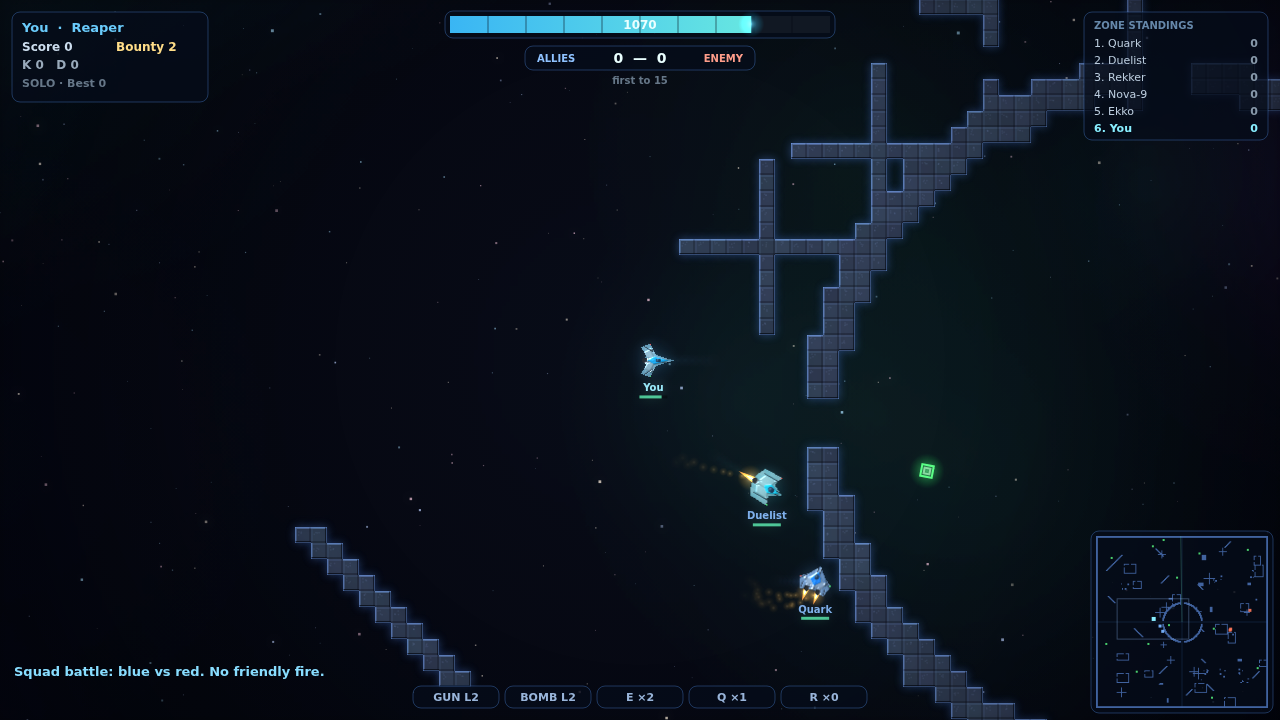
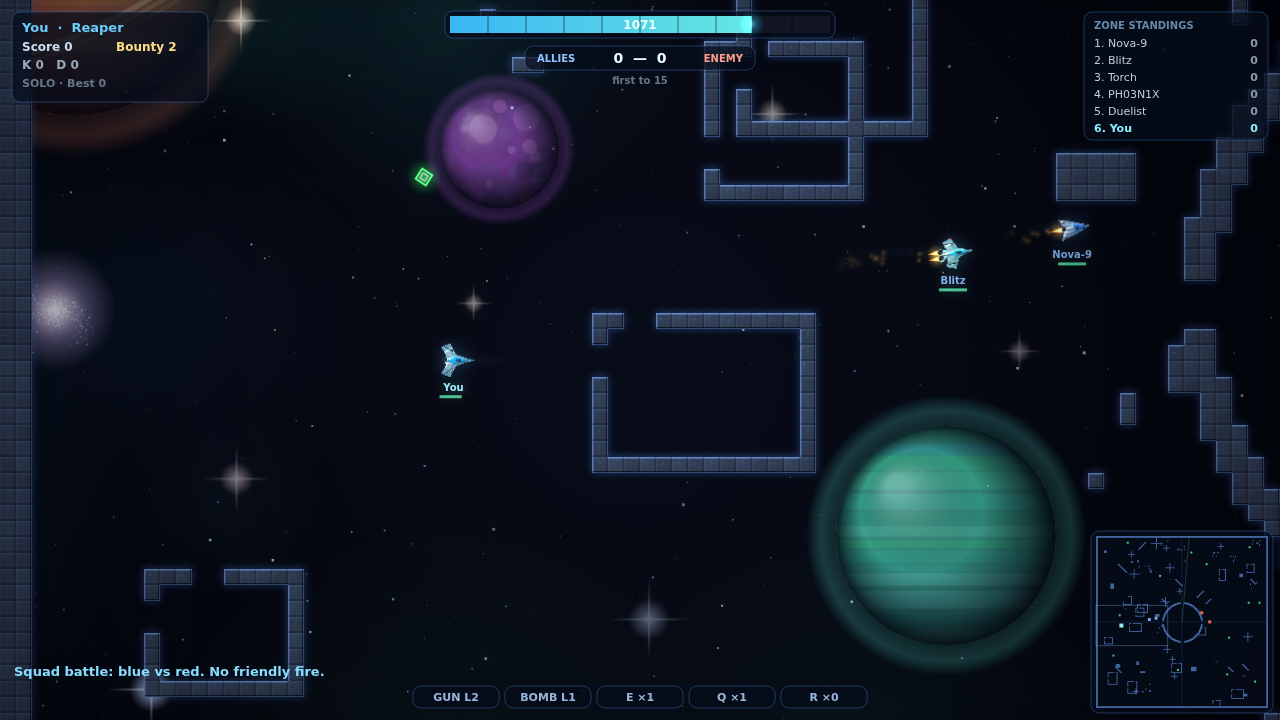
Fill deep space with places: planets, a black hole, a galaxy, flare stars
The zone now feels like traveling through space, in the spirit of the
classic starfield zones but rendered to match the new ship art:

- Procedural planets, all lit from the same top-left as the ships: a
  ringed world (ring passes behind the limb and in front, correctly
  occluded), a banded gas giant, and a cratered rocky world — each with
  spherical shading and an atmosphere halo, dimmed so combat always
  reads above the scenery.
- A black hole with a hollow-centered accretion disk, photon ring,
  lensed light band, and a blue-shifted event horizon edge, slowly
  rotating.
- A distant two-armed spiral galaxy built from hundreds of star points.
- Eight bright flare stars with diffraction spikes that twinkle, plus a
  260-point unresolved star-dust layer at the deepest parallax, and
  occasional shooting stars streaking across the sky.
- Everything parallax-wrapped at its own depth, so flying anywhere
  gives layered motion from dust to nebulae.

Claude-Session: https://claude.ai/code/session_01B8hcSvZjcaomtossQcuxbY

diff --git a/client.js b/client.js
@@ -32,6 +32,7 @@
     chatOpen: false, chatStr: '',
     zoneStatus: null, zoneMode: '', sideFlip: 0, duel: null, myElo: 0,
     lastKillerId: 0, coreOwner: 0,
+    shoot: null, shootT: 6,
   };
   const keys = Object.create(null);
   let canvas = null, ctx = null, vw = 1280, vh = 720, dpr = 1;
@@ -932,6 +933,23 @@
       G.banner.t += dt;
       if (G.banner.t > G.banner.dur) G.banner = null;
     }
+    // shooting stars streak by every so often
+    if (G.shoot) {
+      G.shoot.x += G.shoot.vx * dt;
+      G.shoot.y += G.shoot.vy * dt;
+      G.shoot.life -= dt;
+      if (G.shoot.life <= 0) G.shoot = null;
+    } else {
+      G.shootT -= dt;
+      if (G.shootT <= 0) {
+        G.shootT = rand(8, 22);
+        const dir = Math.random() < 0.5 ? 1 : -1;
+        G.shoot = {
+          x: dir > 0 ? -30 : vw + 30, y: rand(0, vh * 0.6),
+          vx: dir * rand(500, 800), vy: rand(120, 320), life: 0.9,
+        };
+      }
+    }
 
     if (G.player && !G.player.dead && G.player.energy < G.player.maxEnergy * 0.25) {
       G.beepT -= dt;
@@ -971,9 +989,186 @@
   }
 
   // ---------------------------------------------------------------- backdrop
+  // Deep space with places in it: planets, a black hole, a distant galaxy,
+  // flare stars, dust, nebulae — all parallax layers, all lit from the same
+  // top-left as the ships, so flying feels like actually traveling.
   const stars = [];
   const nebulae = [];
+  const bgObjs = [];
+  const dust = [];
+
+  function makePlanet(rad, hue, style, rng) {
+    const doc = GLOBAL.document;
+    const pad = Math.ceil(rad * (style === 'ringed' ? 1.9 : 1.4));
+    const c = doc.createElement('canvas');
+    c.width = c.height = pad * 2;
+    const g = c.getContext('2d');
+    const cx = pad, cy = pad;
+    const ring = front => {
+      if (style !== 'ringed') return;
+      g.save();
+      g.translate(cx, cy);
+      g.rotate(-0.45);
+      g.scale(1, 0.32);
+      g.beginPath();
+      g.rect(-pad * 3, front ? 0 : -pad * 3, pad * 6, pad * 3);
+      g.clip();
+      for (let i = 0; i < 3; i++) {
+        const rr = rad * (1.35 + i * 0.16);
+        g.beginPath();
+        g.arc(0, 0, rr, 0, TAU);
+        g.strokeStyle = 'hsla(' + (hue + 22) + ',32%,' + (58 - i * 9) + '%,' + (0.55 - i * 0.13).toFixed(2) + ')';
+        g.lineWidth = rad * (0.11 - i * 0.02);
+        g.stroke();
+      }
+      g.restore();
+    };
+    ring(false);                                     // ring passes behind the limb
+    // atmosphere halo
+    const ag = g.createRadialGradient(cx, cy, rad * 0.82, cx, cy, rad * 1.28);
+    ag.addColorStop(0, 'hsla(' + hue + ',70%,62%,0)');
+    ag.addColorStop(0.7, 'hsla(' + hue + ',70%,62%,0.26)');
+    ag.addColorStop(1, 'hsla(' + hue + ',70%,62%,0)');
+    g.fillStyle = ag;
+    g.beginPath(); g.arc(cx, cy, rad * 1.28, 0, TAU); g.fill();
+    // body
+    g.save();
+    g.beginPath(); g.arc(cx, cy, rad, 0, TAU); g.clip();
+    g.fillStyle = 'hsl(' + hue + ',45%,40%)';
+    g.fillRect(cx - rad, cy - rad, rad * 2, rad * 2);
+    if (style === 'rock') {
+      for (let i = 0; i < 46; i++) {
+        const px = cx + (rng() * 2 - 1) * rad, py = cy + (rng() * 2 - 1) * rad;
+        const pr = rad * (0.05 + rng() * 0.2);
+        g.fillStyle = 'hsla(' + (hue + rng() * 40 - 20) + ',36%,' + (26 + rng() * 36) + '%,0.55)';
+        g.beginPath(); g.arc(px, py, pr, 0, TAU); g.fill();
+      }
+    } else {
+      // banded gas giant
+      let y = -rad;
+      while (y < rad) {
+        const bh = rad * (0.05 + rng() * 0.12);
+        g.fillStyle = 'hsla(' + (hue + rng() * 30 - 15) + ',52%,' + (34 + rng() * 30) + '%,0.5)';
+        g.fillRect(cx - rad, cy + y, rad * 2, bh);
+        y += bh + rad * rng() * 0.06;
+      }
+    }
+    // spherical shading, sun from the top-left like everything else
+    const sg = g.createRadialGradient(cx - rad * 0.45, cy - rad * 0.45, rad * 0.1, cx, cy, rad * 1.02);
+    sg.addColorStop(0, 'rgba(255,255,255,0.28)');
+    sg.addColorStop(0.5, 'rgba(0,0,0,0)');
+    sg.addColorStop(0.82, 'rgba(3,5,14,0.55)');
+    sg.addColorStop(1, 'rgba(1,2,8,0.96)');
+    g.fillStyle = sg;
+    g.fillRect(cx - rad, cy - rad, rad * 2, rad * 2);
+    g.restore();
+    ring(true);                                      // ring passes in front
+    return c;
+  }
+
+  function makeBlackHole(size) {
+    const doc = GLOBAL.document;
+    const c = doc.createElement('canvas');
+    c.width = c.height = size * 2;
+    const g = c.getContext('2d');
+    const cx = size, cy = size;
+    // accretion disk
+    g.save();
+    g.translate(cx, cy);
+    g.rotate(-0.5);
+    g.scale(1, 0.3);
+    const dg = g.createRadialGradient(0, 0, size * 0.28, 0, 0, size * 0.95);
+    dg.addColorStop(0, 'rgba(255,242,225,0.95)');
+    dg.addColorStop(0.25, 'rgba(255,180,95,0.75)');
+    dg.addColorStop(0.6, 'rgba(210,90,50,0.32)');
+    dg.addColorStop(1, 'rgba(130,45,70,0)');
+    g.fillStyle = dg;
+    g.beginPath(); g.arc(0, 0, size * 0.95, 0, TAU); g.fill();
+    g.globalCompositeOperation = 'destination-out';
+    g.beginPath(); g.arc(0, 0, size * 0.27, 0, TAU); g.fill();
+    g.restore();
+    // photon ring + lensed light
+    g.strokeStyle = 'rgba(255,232,205,0.9)';
+    g.lineWidth = Math.max(1.5, size * 0.018);
+    g.beginPath(); g.arc(cx, cy, size * 0.3, 0, TAU); g.stroke();
+    g.strokeStyle = 'rgba(255,200,140,0.3)';
+    g.lineWidth = size * 0.05;
+    g.beginPath(); g.arc(cx, cy, size * 0.335, 0, TAU); g.stroke();
+    // event horizon
+    const eh = g.createRadialGradient(cx, cy, size * 0.05, cx, cy, size * 0.29);
+    eh.addColorStop(0, '#000');
+    eh.addColorStop(0.88, '#000');
+    eh.addColorStop(1, 'rgba(45,65,130,0.55)');
+    g.fillStyle = eh;
+    g.beginPath(); g.arc(cx, cy, size * 0.29, 0, TAU); g.fill();
+    return c;
+  }
+
+  function makeGalaxy(size, rng) {
+    const doc = GLOBAL.document;
+    const c = doc.createElement('canvas');
+    c.width = c.height = size * 2;
+    const g = c.getContext('2d');
+    const cx = size, cy = size;
+    g.save();
+    g.translate(cx, cy);
+    g.rotate(0.6);
+    // core glow
+    const cg = g.createRadialGradient(0, 0, 1, 0, 0, size * 0.32);
+    cg.addColorStop(0, 'rgba(255,235,215,0.85)');
+    cg.addColorStop(0.5, 'rgba(230,190,255,0.3)');
+    cg.addColorStop(1, 'rgba(200,170,255,0)');
+    g.fillStyle = cg;
+    g.beginPath(); g.arc(0, 0, size * 0.32, 0, TAU); g.fill();
+    // two spiral arms of stars
+    for (let arm = 0; arm < 2; arm++) {
+      for (let i = 0; i < 240; i++) {
+        const th = i / 240 * 3.6 + arm * Math.PI;
+        const rr = size * 0.06 * Math.exp(0.62 * (i / 240) * 3.6) * 0.42;
+        if (rr > size * 0.95) break;
+        const jx = (rng() * 2 - 1) * size * 0.05, jy = (rng() * 2 - 1) * size * 0.05;
+        const px = Math.cos(th) * rr + jx, py = Math.sin(th) * rr * 0.62 + jy;
+        const a = (1 - rr / size) * (0.25 + rng() * 0.5);
+        g.fillStyle = rng() < 0.12
+          ? 'rgba(255,205,230,' + a.toFixed(3) + ')'
+          : 'rgba(210,225,255,' + a.toFixed(3) + ')';
+        g.fillRect(px, py, rng() < 0.2 ? 2 : 1, 1);
+      }
+    }
+    g.restore();
+    return c;
+  }
+
+  function makeFlareStar(size, tint) {
+    const doc = GLOBAL.document;
+    const c = doc.createElement('canvas');
+    c.width = c.height = size * 2;
+    const g = c.getContext('2d');
+    const cx = size, cy = size;
+    const core = g.createRadialGradient(cx, cy, 0, cx, cy, size * 0.5);
+    core.addColorStop(0, 'rgba(255,255,255,1)');
+    core.addColorStop(0.25, 'rgba(' + tint + ',0.8)');
+    core.addColorStop(1, 'rgba(' + tint + ',0)');
+    g.fillStyle = core;
+    g.fillRect(0, 0, size * 2, size * 2);
+    // diffraction spikes
+    for (const rot of [0, Math.PI / 2]) {
+      g.save();
+      g.translate(cx, cy);
+      g.rotate(rot);
+      const sp = g.createLinearGradient(-size, 0, size, 0);
+      sp.addColorStop(0, 'rgba(' + tint + ',0)');
+      sp.addColorStop(0.5, 'rgba(255,255,255,0.9)');
+      sp.addColorStop(1, 'rgba(' + tint + ',0)');
+      g.fillStyle = sp;
+      g.fillRect(-size, -Math.max(1, size * 0.02), size * 2, Math.max(2, size * 0.04));
+      g.restore();
+    }
+    return c;
+  }
+
   function initBackdrop() {
+    const doc = GLOBAL.document;
     stars.length = 0;
     const layers = [[170, 0.22, 1], [100, 0.45, 1.6], [55, 0.75, 2.3]];
     const tints = ['190,210,255', '255,240,220', '170,225,255', '255,205,225'];
@@ -983,15 +1178,16 @@
           x: rand(0, 4000), y: rand(0, 4000), z, size: size * rand(0.6, 1.3),
           tw: rand(0, TAU), tint: tints[irand(tints.length)],
         });
+    dust.length = 0;
+    for (let i = 0; i < 260; i++)
+      dust.push({ x: rand(0, 4000), y: rand(0, 4000), a: rand(0.15, 0.5) });
     nebulae.length = 0;
-    const doc = GLOBAL.document;
     const hues = [205, 275, 320, 185, 250, 160];
     for (let i = 0; i < 6; i++) {
       const c = doc.createElement('canvas');
       c.width = 512; c.height = 512;
       const g = c.getContext('2d');
       const hue = hues[i % hues.length];
-      // layered blobs give the cloud some internal structure
       for (let b = 0; b < 7; b++) {
         const bx = 256 + rand(-110, 110), by = 256 + rand(-110, 110);
         const br = rand(60, 180);
@@ -1004,6 +1200,22 @@
       }
       nebulae.push({ c, x: rand(0, WORLD), y: rand(0, WORLD), r: rand(380, 700), a: rand(0.35, 0.6) });
     }
+    // deep-space set pieces
+    bgObjs.length = 0;
+    const rng = SIM.mulberry32((Math.random() * 1e9) | 0);
+    const planetHues = [rand(10, 40), rand(170, 220), rand(270, 330)];
+    bgObjs.push({ c: makePlanet(150, planetHues[0], 'ringed', rng), x: rand(0, WORLD), y: rand(0, WORLD), z: 0.16, a: 0.8, add: false });
+    bgObjs.push({ c: makePlanet(110, planetHues[1], 'gas', rng), x: rand(0, WORLD), y: rand(0, WORLD), z: 0.12, a: 0.75, add: false });
+    bgObjs.push({ c: makePlanet(60, planetHues[2], 'rock', rng), x: rand(0, WORLD), y: rand(0, WORLD), z: 0.09, a: 0.72, add: false });
+    bgObjs.push({ c: makeBlackHole(170), x: rand(0, WORLD), y: rand(0, WORLD), z: 0.13, a: 0.95, add: true, rotV: 0.02 });
+    bgObjs.push({ c: makeGalaxy(190, rng), x: rand(0, WORLD), y: rand(0, WORLD), z: 0.06, a: 0.85, add: true });
+    const flareTints = ['200,220,255', '255,230,200', '255,210,225'];
+    for (let i = 0; i < 8; i++) {
+      bgObjs.push({
+        c: makeFlareStar(rand(18, 44), flareTints[irand(flareTints.length)]),
+        x: rand(0, WORLD), y: rand(0, WORLD), z: rand(0.07, 0.12), a: rand(0.5, 0.9), add: true, tw: rand(0, TAU),
+      });
+    }
   }
 
   function drawBackdrop() {
@@ -1013,16 +1225,54 @@
     sky.addColorStop(1, '#020308');
     ctx.fillStyle = sky;
     ctx.fillRect(0, 0, vw, vh);
+    // farthest layer: unresolved star dust
+    ctx.fillStyle = 'rgba(200,215,255,0.5)';
+    for (const d of dust) {
+      const sx = ((d.x - G.cam.x * 0.045) % (vw + 40) + vw + 40) % (vw + 40) - 20;
+      const sy = ((d.y - G.cam.y * 0.045) % (vh + 40) + vh + 40) % (vh + 40) - 20;
+      ctx.globalAlpha = d.a;
+      ctx.fillRect(sx, sy, 1, 1);
+    }
+    ctx.globalAlpha = 1;
+    // set pieces: galaxy, planets, black hole, flare stars (parallax-wrapped)
+    for (const o of bgObjs) {
+      const w = o.c.width, h = o.c.height;
+      const sx = ((o.x - G.cam.x * o.z) % (vw + w) + vw + w) % (vw + w) - w;
+      const sy = ((o.y - G.cam.y * o.z) % (vh + h) + vh + h) % (vh + h) - h;
+      ctx.globalCompositeOperation = o.add ? 'lighter' : 'source-over';
+      ctx.globalAlpha = o.a * (o.tw == null ? 1 : 0.7 + 0.3 * Math.sin(G.time * 1.3 + o.tw));
+      if (o.rotV) {
+        ctx.save();
+        ctx.translate(sx + w / 2, sy + h / 2);
+        ctx.rotate(G.time * o.rotV);
+        ctx.drawImage(o.c, -w / 2, -h / 2);
+        ctx.restore();
+      } else {
+        ctx.drawImage(o.c, sx, sy);
+      }
+    }
+    ctx.globalAlpha = 1;
     ctx.globalCompositeOperation = 'lighter';
     for (const nb of nebulae) {
       const px = nb.x - G.cam.x * 0.14, py = nb.y - G.cam.y * 0.14;
       const wx = ((px % (vw + 1100)) + vw + 1100) % (vw + 1100) - 550;
       const wy = ((py % (vh + 1100)) + vh + 1100) % (vh + 1100) - 550;
-      ctx.globalAlpha = nb.a * 0.45;
+      ctx.globalAlpha = nb.a * 0.5;
       ctx.drawImage(nb.c, wx - nb.r, wy - nb.r, nb.r * 2, nb.r * 2);
     }
     ctx.globalAlpha = 1;
     ctx.globalCompositeOperation = 'source-over';
+    // occasional shooting star
+    if (G.shoot) {
+      const s = G.shoot;
+      const f = clamp(s.life / 0.9, 0, 1);
+      ctx.strokeStyle = 'rgba(220,235,255,' + (f * 0.85).toFixed(3) + ')';
+      ctx.lineWidth = 1.5;
+      ctx.beginPath();
+      ctx.moveTo(s.x, s.y);
+      ctx.lineTo(s.x - s.vx * 0.12, s.y - s.vy * 0.12);
+      ctx.stroke();
+    }
     for (const st of stars) {
       const sx = ((st.x - G.cam.x * st.z) % (vw + 100) + vw + 100) % (vw + 100) - 50;
       const sy = ((st.y - G.cam.y * st.z) % (vh + 100) + vh + 100) % (vh + 100) - 50;
